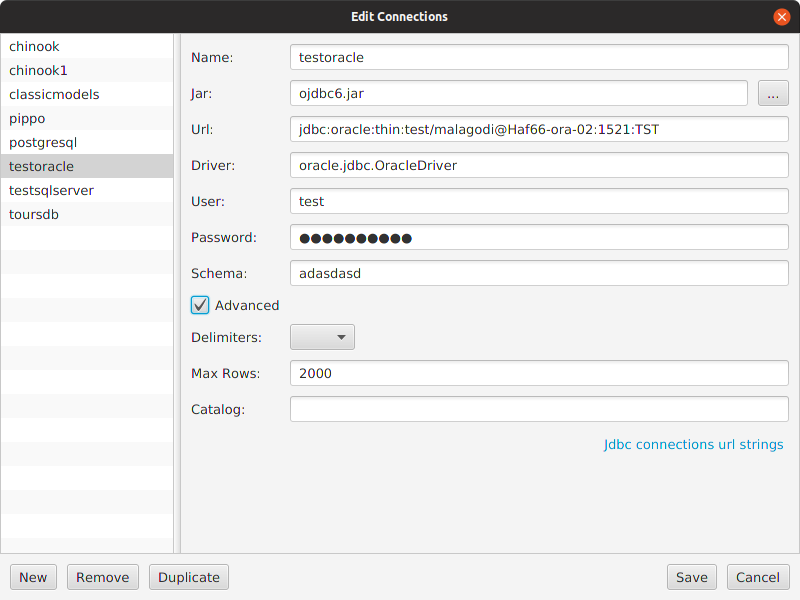
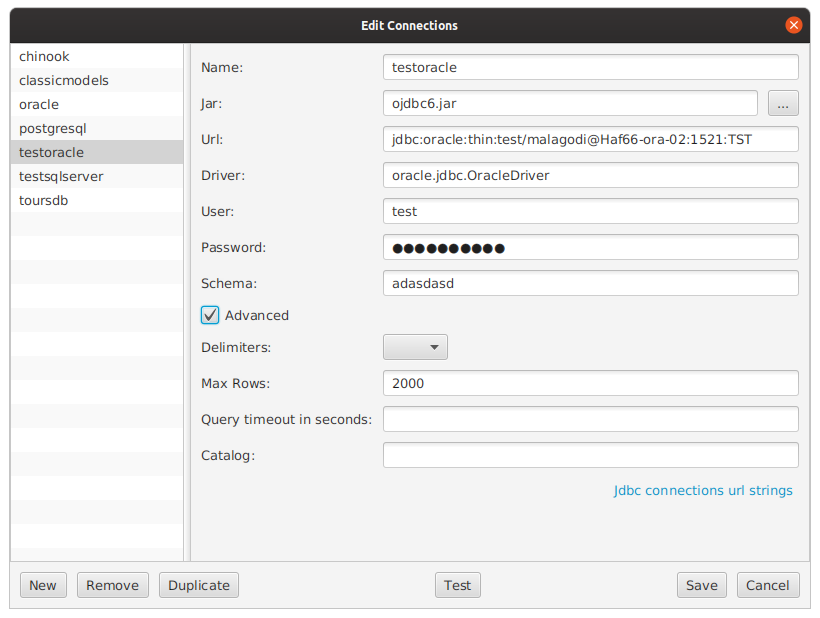
updated connection editor documentation

diff --git a/docs/Connections-editor.md b/docs/Connections-editor.md
@@ -40,6 +40,10 @@ The new definition is immediately selected, showing its definition on the left.
 The only field with some content is the Name, showing the <NEW> name. <NEW> is just a temporary name that needs to be changed. 
 Change the name of the connection and fill the other field, then click on **Save**. The connection is added to the list and immediately displayed on the main window.
 
+Connections can be **tested** directly in this editor, selecting a connection from the list and clicking on the **Test** button, which displays a success message if it wes able to connect to the database, a detailed error in the case it was not.
+
 To **remove** a connection, select it and click on the button **Remove**. The connection disappears from the list. Clicking on Save, the file is updated and reloaded in the main window without the removed connection. 
 
 It is also possible to **duplicate** a connection (button **Duplicate**), because in real life connection definitions tend to be similar (same server, same database with different user, same driver). The new connection will have the same definition as the original but no name.
+
+
